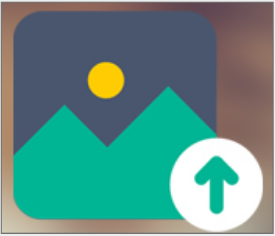
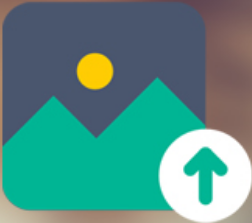
--
--

diff --git a/css/style.css b/css/style.css
@@ -241,21 +241,29 @@ body {
   width: 240px;
   position: absolute;
   right: 50px;
-  transform: rotate(-2.5deg);
   overflow: hidden;
+  background: grey;
+  transform: rotate(-2.5deg);
 }
 
 .profile-section-image-display img:nth-child(2){
   width: 100%;
   height: 100%;
   object-fit: cover;
-  filter: blur(90px);
+  filter: blur(6px);
 }
 
 .profile-section-upload-icon-wrapper{
-  position: absolute;
+  position: relative;
   z-index: 1;
-  height: 50px;
+  width: 80px;
+  transform: rotate(2.5deg);
+}
+
+.profile-section-upload-icon-wrapper img{
+  width: 100%;
+  position: absolute;
+  top: 110px;
 }
 
 .profile-section-info {

diff --git a/mein_profil.html b/mein_profil.html
@@ -38,7 +38,7 @@
           <div class="profile-section-image-display-bg"></div>
           <div class="profile-section-image-display">
             <div class="profile-section-upload-icon-wrapper">
-              <img src="media/upload.PNG" alt="upload">
+              <img src="media/upload.png" alt="upload">
             </div>
             <img src="media/profile.jpg" alt="profile img">
           </div>
